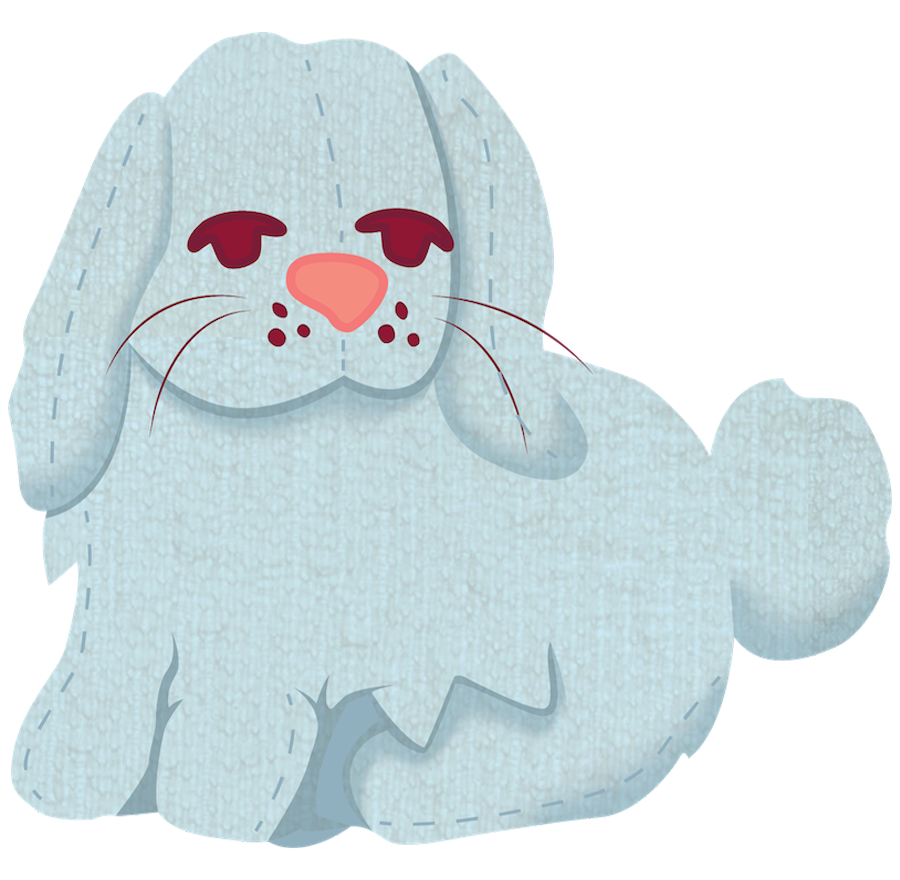
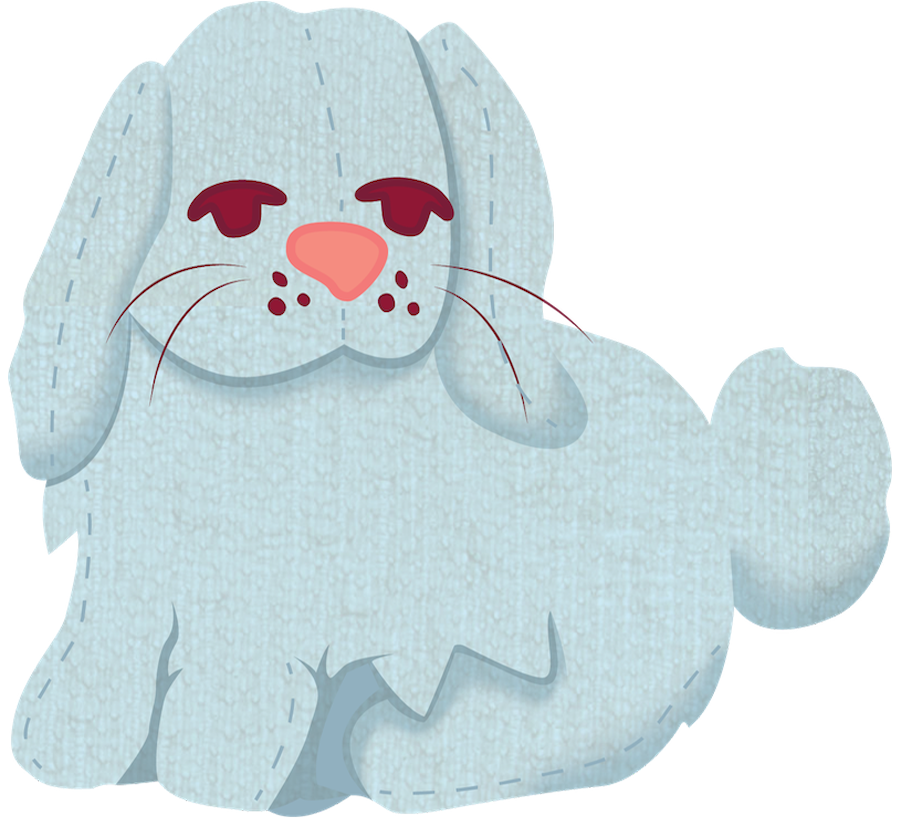
all done cnsjkbzcjkzkc

diff --git a/project-7-spudbuds.html b/project-7-spudbuds.html
@@ -232,8 +232,8 @@
           <figure class="project-image">
             <img
               src="assets/spudbuds/Branding Stuff/spudbuds-fabric-bedding-and-bedding-pieces.png"
-              width="670"
-              height="1050"
+              width="587"
+              height="946"
               loading="lazy"
               alt="spudbuds bedding pieces mockups"
             />
@@ -241,8 +241,8 @@
           <figure class="project-image">
             <img
               src="assets/spudbuds/Branding Stuff/spudbuds-packaging-and-hangtags.png"
-              width="670"
-              height="1050"
+              width="508"
+              height="955"
               loading="lazy"
               alt="spudbuds bedding and plushies packaging"
             />
@@ -267,7 +267,7 @@
             <img
               src="assets/spudbuds/All Illustrated Assets/spudbuds-plush-bunny.png"
               width="900"
-              height="880"
+              height="818"
               loading="lazy"
               alt="spudbuds plush bunny design"
             />
@@ -285,7 +285,7 @@
             <img
               src="assets/spudbuds/All Illustrated Assets/spudbuds-plush-sheep.png"
               width="900"
-              height="880"
+              height="708"
               loading="lazy"
               alt="spudbuds plush sheep design"
             />

diff --git a/project-6-strathcona.html b/project-6-strathcona.html
@@ -275,8 +275,8 @@
         <figure class="project-image top border no-border">
           <img
             src="assets/strathcona/strathcona-assets/strathcona-booth-assets/strathcona-booth-transparent.png"
-            width="1050"
-            height="720"
+            width="744"
+            height="685"
             loading="lazy"
             alt="strathcona post booth design with transparent background"
           />

diff --git a/project-4-franks.html b/project-4-franks.html
@@ -168,8 +168,8 @@
           <figure class="project-image no-border">
             <img
               src="assets/franks-redhot/franks-redhot-moodboard-colours-final.png"
-              width="835"
-              height="835"
+              width="757"
+              height="757"
               loading="lazy"
               alt="franks redhot moodboard three"
             />

diff --git a/styles/style.css b/styles/style.css
@@ -3807,6 +3807,12 @@ html {
   padding-top: 0.5rem; /* optional: small spacing for readability */
 }
 
+.project-description-subtitle,
+.project-description-one-column {
+  position: relative;
+  top: -1rem; /* moves all instances upward */
+}
+
 /*
 
 
